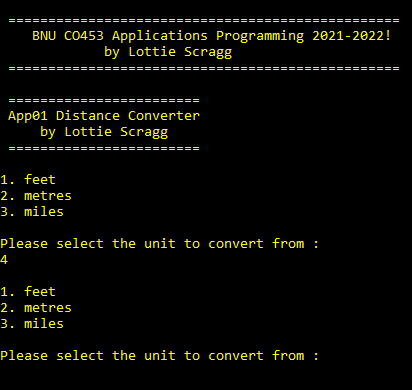
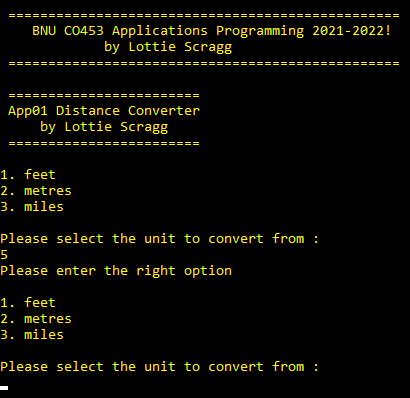
screenshots

diff --git a/ConsoleAppProject/App01/DistanceConverter.cs b/ConsoleAppProject/App01/DistanceConverter.cs
@@ -38,7 +38,11 @@ namespace ConsoleAppProject.App01
             do
             {
                 fromUnit = SelectUnit("Please select the unit to convert from : ");
-                Console.WriteLine("Please enter the right option");
+                if (fromUnit == null)
+                {
+                     Console.WriteLine("Please enter the right option");
+                }
+                
                 
             }
             while (fromUnit == null);
@@ -48,7 +52,11 @@ namespace ConsoleAppProject.App01
             do
             {
                 toUnit = SelectUnit("Please select the unit to convert to : ");
-                Console.WriteLine("Please enter the right option");
+                if (toUnit == null)
+                {
+                    Console.WriteLine("Please enter the right option");
+                }
+                
             }
             while (toUnit == null);
             
